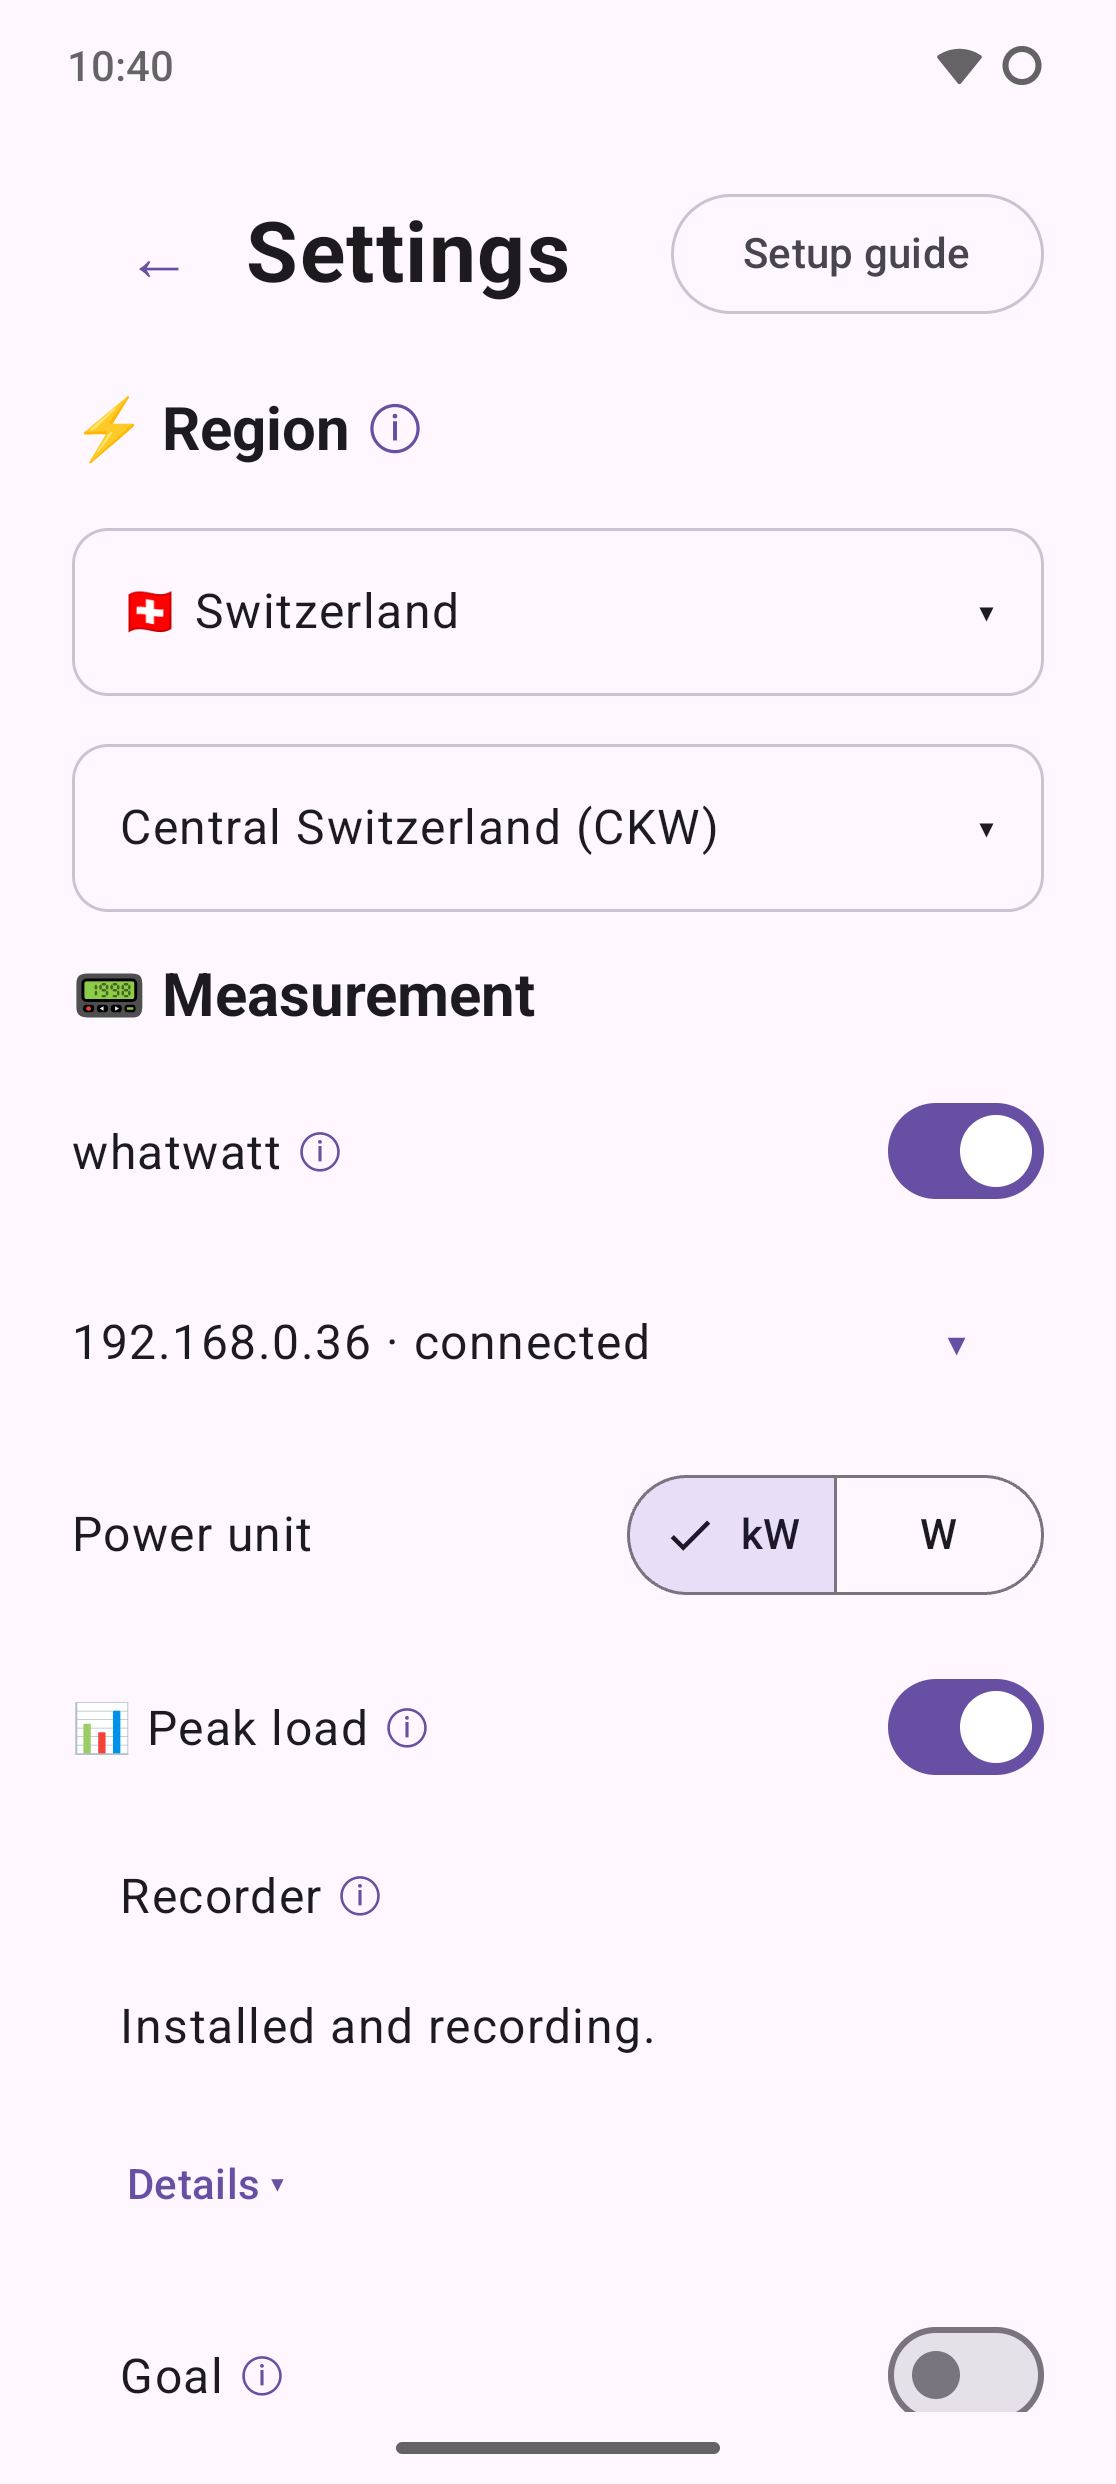
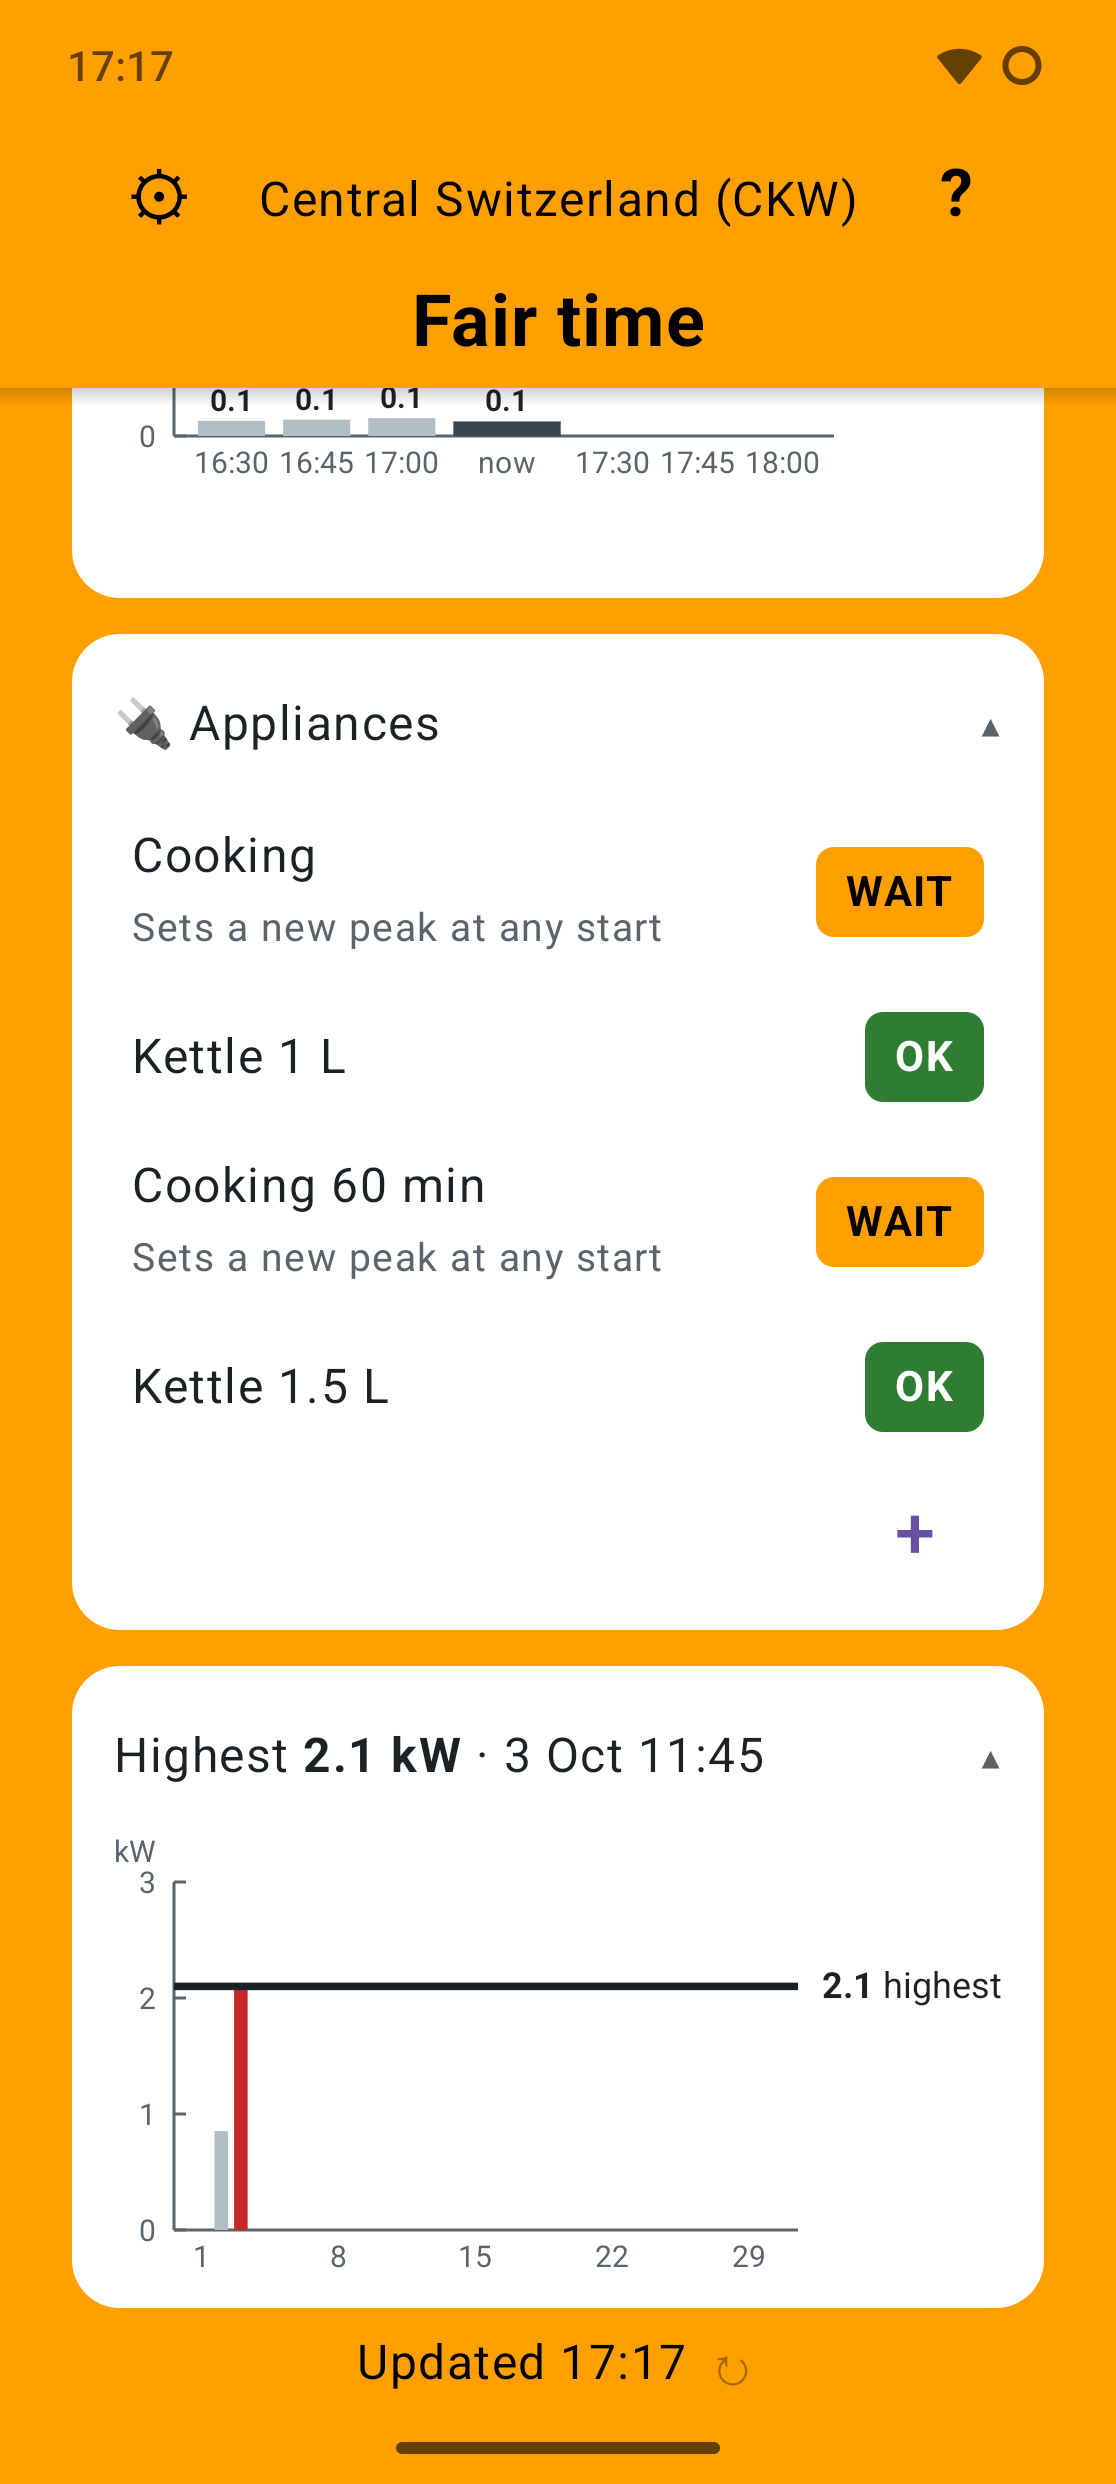
New store screenshots with the appliances; F-Droid recipe at v0.10.0
- Screenshots: 1 main screen with the appliances panel, 2 the
  "Cooking" preview in the peak window, 3 scrolled (strip, appliances,
  history); the help and Settings kept, now 4 and 5
- Docs: the recipe moved to v0.10.0 after the second review

diff --git a/.claude/skills/build-gridload-android/SKILL.md b/.claude/skills/build-gridload-android/SKILL.md
@@ -110,15 +110,19 @@ utilities' APIs), category `Market & Price`, `GPL-3.0-only`, `Binaries` +
 `AllowedAPKSigningKeys` for reproducible builds. The pipeline is green: `fdroid build` (Debian
 13, JDK 21 by default, so no `sudo` block) and the reproducible-build check.
 
-The recipe is at v0.6.0 (versionCode 8, the user's fork commit `6aeacf167`); the reviewer's
-R8 request was answered with v0.3.1. Auto update (`UpdateCheckMode: Tags`, `AutoUpdateMode:
-Version`) builds v0.7.0 and later once merged. Before moving the recipe to a new version:
+The recipe is at v0.10.0 (versionCode 12, the user's fork commit `cb4172fe1`, pushed
+2026-10-03; its pipeline was still running when the session ended, so check it); the reviewer's
+R8 request was answered with v0.3.1. The second review (2026-10-03) asked for a current version
+and corrected "no native code" (the APK has AndroidX's `libandroidx.graphics.path.so`, ~10 KB
+per ABI; the MR description now says so). The NonFreeNet text now also names the whatwatt and
+its paid Plus licence. Auto update (`UpdateCheckMode: Tags`, `AutoUpdateMode: Version`) builds
+later tags once merged. Before moving the recipe to a new version:
 check that the GitHub APK's signer matches `AllowedAPKSigningKeys` and that its contents equal
 an unsigned build of the tag (all entries outside `META-INF/`), then commit in the clone at
 `../fdroiddata`. Pushing to the fork needs a GitLab token (`write_repository`) as the password;
 the fork has no credential helper.
 
-Next: answer reviewer comments. The user posts on GitLab (it's public under their name);
+Next: on-device testing by the reviewer; answer further comments. The user posts on GitLab (it's public under their name);
 Claude drafts the answers and any recipe changes, and can check the merge request and
 pipelines through GitLab's public API (`/api/v4/projects/fdroid%2Ffdroiddata/merge_requests/50583`).
 
@@ -203,7 +207,10 @@ Still open:
      "Cheaper · Delay 3 h" (evening prices; checks 1.3's rounding and 1.4's separator); the
      row before tomorrow's prices are out (1.5, before 12:00 for CKW).
    - The dishwasher run ("Dishwasher 65°", ~1.5 h, Can wait on).
-   - Store screenshots without the appliances panel: retake before F-Droid ships it.
+   - ~~Store screenshots~~: done 2026-10-03 on the Fairphone 6, demo mode, "Kettle 1L test"
+     hidden for the shots: 1 main screen with the appliances, 2 the "Cooking" preview, 3
+     scrolled (strip, appliances, history), 4 help and 5 Settings kept from v0.9. F-Droid takes
+     them from the built tag, so they show there from the first tag after v0.10.0.
 2. Left to the user: the setup help's "The result shows up to 15 minutes later." is still true,
    though the result now usually comes at once (the user's text).
 

diff --git a/CLAUDE.md b/CLAUDE.md
@@ -256,7 +256,7 @@ Recomputed with each reading and each minute, for each appliance, for starting i
 
 ## Current state
 
-Released: **v0.10.0** (tag `v0.10.0`, versionCode 12, 2026-10-03: the [appliances](#appliances) panel and its preview in the peak window); before it v0.9.0 (versionCode 11, 2026-10-03: the panels and the history, country before region, kW | W, pull to refresh) on GitHub Releases/Obtainium. F-Droid: merge request https://gitlab.com/fdroid/fdroiddata/-/merge_requests/50583, in review, with the recipe at v0.6.0 (user, 2026-10-02); auto update (`UpdateCheckMode: Tags`, `AutoUpdateMode: Version`) picks up v0.7.0 and later tags once merged. iOS is out of scope for now. The user gives further instructions step by step; the roadmap and each phase's status are in the skill.
+Released: **v0.10.0** (tag `v0.10.0`, versionCode 12, 2026-10-03: the [appliances](#appliances) panel and its preview in the peak window); before it v0.9.0 (versionCode 11, 2026-10-03: the panels and the history, country before region, kW | W, pull to refresh) on GitHub Releases/Obtainium. F-Droid: merge request https://gitlab.com/fdroid/fdroiddata/-/merge_requests/50583, in review, with the recipe at v0.10.0 (2026-10-03, as the reviewer asked for a current version); auto update (`UpdateCheckMode: Tags`, `AutoUpdateMode: Version`) picks up later tags once merged. iOS is out of scope for now. The user gives further instructions step by step; the roadmap and each phase's status are in the skill.
 
 ## Conventions
 
